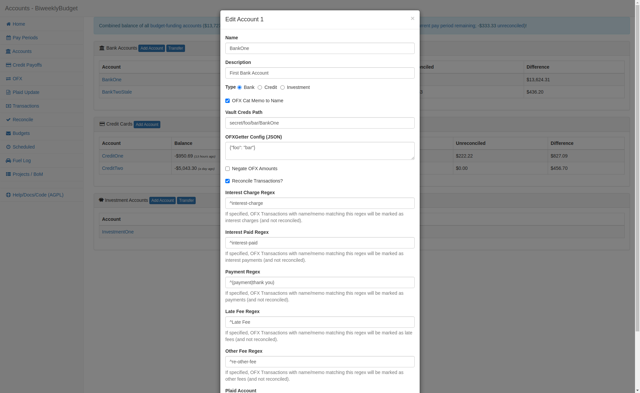
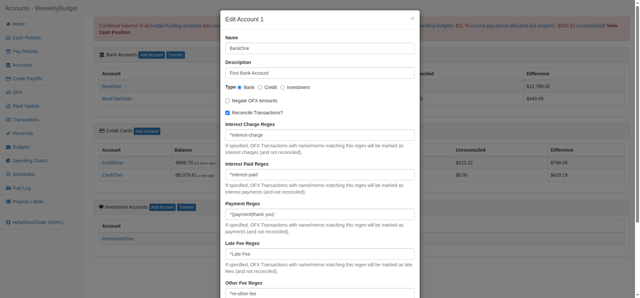
Remove OFX Vault - M1.3: Commit the Edit Account screenshots without the OFX fields (issue #265)
The Edit Account modal no longer has the "OFX Cat Memo to Name", "Vault
Creds Path" and "OFXGetter Config (JSON)" fields, so account1 and
account1-plaid are regenerated from tox -e screenshots. The OFX page
description in screenshots.rst now matches docs/make_screenshots.py.

Only these images are committed. The run also re-rendered every other
screenshot with new random sample data and added entries from earlier
features; those were reverted to keep this change in scope. Marks
T038 and T039 done.

Claude-Session: https://claude.ai/code/session_01Y1UppirkPfeweFCp2z15Zn

diff --git a/specs/20260914-054238-remove-ofx-vault/tasks.md b/specs/20260914-054238-remove-ofx-vault/tasks.md
@@ -138,8 +138,8 @@ screen scraping; Plaid presented as the transaction source.
 - [X] T035 Run `tox -e py314` to completion; all pass (output to scratchpad) — 955 passed, 4 skipped
 - [X] T036 Run `tox -e acceptance` to completion; all pass (re-run known flaky tests in isolation before blaming the change) — 882 passed, 18 skipped (23 min)
 - [ ] T037 Run `tox -e migrations` and `tox -e docker` to completion; all pass
-- [ ] T038 Run `tox -e docs` and `tox -e jsdoc`; then, not concurrently with docs, `tox -e screenshots`; commit only the changed `docs/source/account1*.png` (and any other screenshot the change touched), reverting unrelated PNG churn
-- [ ] T039 Run quickstart §1 grep and §2 clean-venv install check; mark tasks complete in this file and commit
+- [X] T038 Run `tox -e docs` and `tox -e jsdoc`; then, not concurrently with docs, `tox -e screenshots`; commit only the changed `docs/source/account1*.png` (and any other screenshot the change touched), reverting unrelated PNG churn — docs OK, jsdoc OK (unrelated jsdoc.*.rst reverted), screenshots OK; committed account1*.png and account1-plaid*.png only
+- [X] T039 Run quickstart §1 grep and §2 clean-venv install check; mark tasks complete in this file and commit — grep clean; clean venv has none of the 5 packages or ofx* scripts
 
 ---
 

diff --git a/docs/source/screenshots.rst b/docs/source/screenshots.rst
@@ -106,7 +106,7 @@ Details of a single account.
 OFX Transactions
 ----------------
 
-Shows transactions imported from OFX statements.
+Shows downloaded transactions (retrieved via Plaid).
 
 .. image:: ofx_sm.png
    :target: ofx.png
